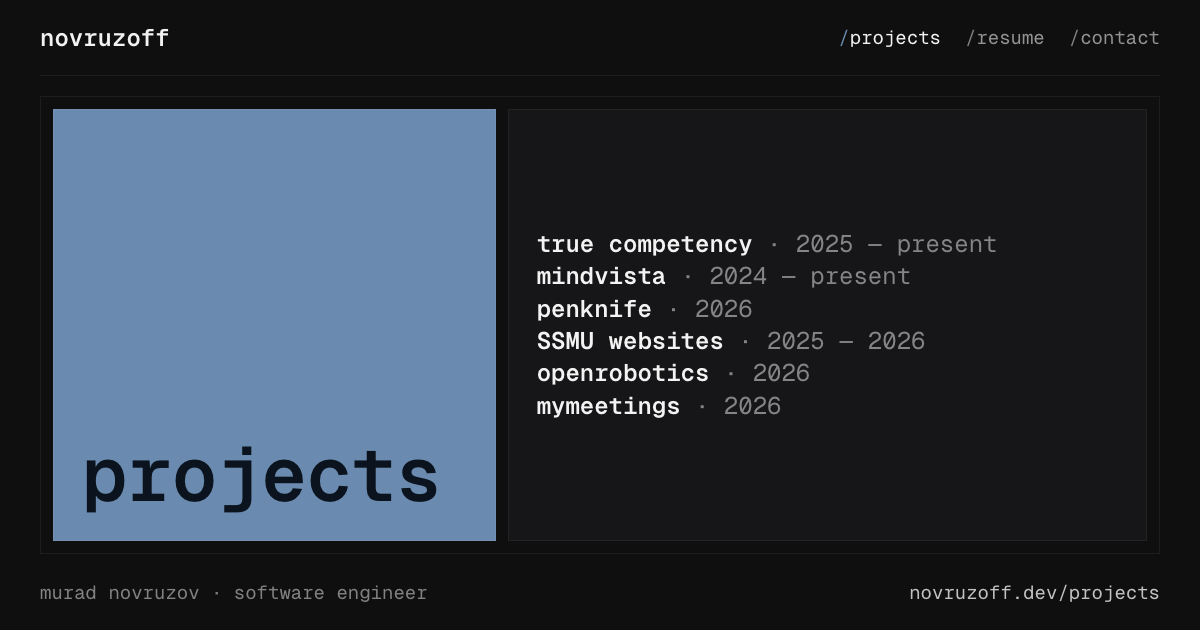
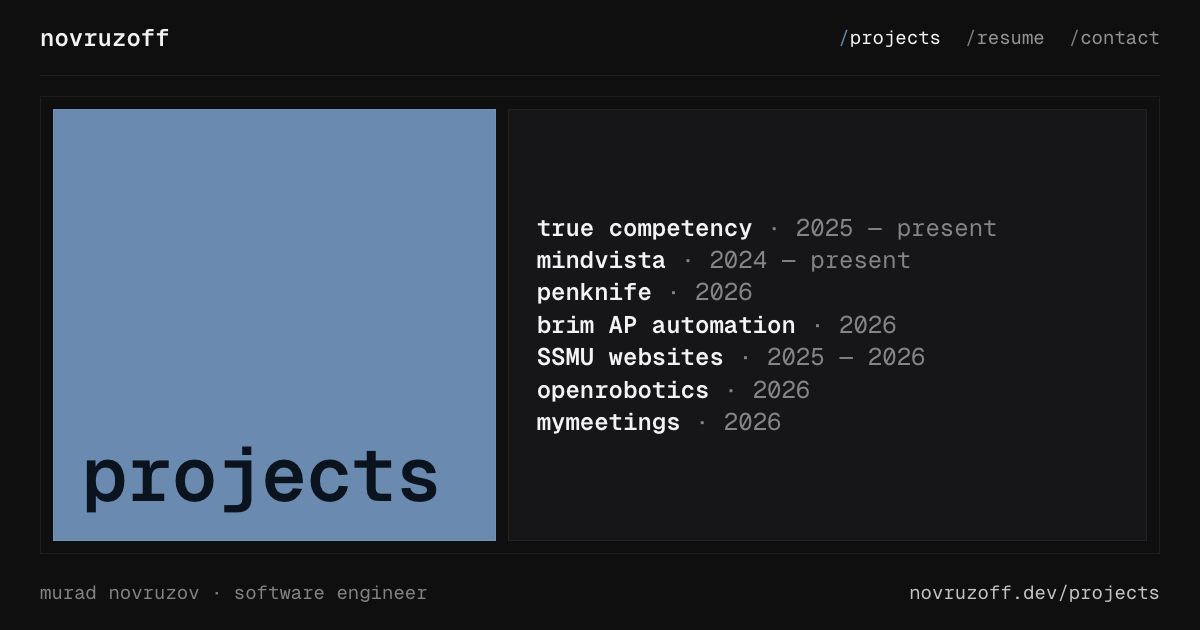
feat(projects): add brim AP automation; sync site content to current CV

Changed region(s): [[0.4317, 0.3317, 0.8325, 0.6937]]

diff --git a/src/data/projects.ts b/src/data/projects.ts
@@ -11,7 +11,9 @@ export type Project = {
   slug: string;
   title: string;
   dates: string;
-  /** One sentence: what it is. The legacy home page shows only this. */
+  /** A recognition (e.g. a hackathon placing), shown as metadata under the title. */
+  award?: string;
+  /** One sentence: what it is. */
   blurb: string;
   metrics?: Metric[];
   /** The detail, one fact per bullet. Shown on /projects. */
@@ -50,7 +52,7 @@ export const projects: Project[] = [
     ],
     highlights: [
       "role-based dashboards for trainees, instructors and committees, with authorization at the database layer via PostgreSQL RLS.",
-      "staged content workflow: Delphi voting and an approval lifecycle drive the MCQ pipeline.",
+      "staged content workflow: expert-consensus (Delphi) voting and an approval lifecycle drive the MCQ pipeline.",
       "multi-modality architecture: IVUS module shipped, OCT in development, native iOS/Android in scoping.",
       "full production delivery: Vercel, Sentry, Resend and a Tailwind design system.",
       "five-figure institutional contract with APSC (hong kong), with additional medical societies in negotiation. backed by vitruvius venture studio.",
@@ -108,11 +110,35 @@ export const projects: Project[] = [
       "structured as a local Swift package: a UI-free core and one module per tool behind a shared registry.",
       "every tool exposed through App Intents (12 actions, 10 shortcuts) and a share extension kept under its 120 MB memory limit.",
       "all processing on-device with no third-party dependencies. network tools block local-network targets (incl. NAT64/6to4). adaptive iPhone layouts.",
+      "keeps a “Data Not Collected” App Store privacy label.",
       "180+ unit/UI tests (Swift Testing, XCTest) under Swift 6 strict concurrency.",
     ],
     stack: ["Swift 6", "SwiftUI", "App Intents", "Swift Testing", "XCTest"],
     liveUrl: "/penknife",
     appStoreUrl: PENKNIFE_APP_STORE_URL,
+  },
+  {
+    slug: "brim-ap-automation",
+    title: "brim AP automation",
+    dates: "2026",
+    award: "codejam 16 honourable mention (brim fintech challenge, McGill ECSESS)",
+    blurb:
+      "accounts-payable platform that takes invoices from email or PDF through LLM extraction, fraud/tax controls, approvals, and simulated payment.",
+    metrics: [
+      { value: "426", label: "invoices replayed" },
+      { value: "$16.8k", label: "duplicate payments found" },
+      { value: "1,800+", label: "tests" },
+      { value: "4", label: "person team" },
+    ],
+    highlights: [
+      "led a 4-person team.",
+      "replaying 426 past invoices found $16.8k paid twice.",
+      "owned the data layer: an Alembic-versioned SQLAlchemy schema and a hash-chained audit log that detects any edit, insertion, or deletion.",
+      "built most of the React/TypeScript UI.",
+      "team test suite of 1,800+ tests.",
+    ],
+    stack: ["Python", "FastAPI", "SQLAlchemy", "Alembic", "React", "TypeScript", "Claude API"],
+    // No link yet: the brief's link was still a placeholder.
   },
   {
     slug: "ssmu-websites",
@@ -133,18 +159,19 @@ export const projects: Project[] = [
     slug: "openrobotics",
     title: "openrobotics",
     dates: "jan 2026 — may 2026",
-    blurb: "multi-robot warehouse simulator, built in a 7-person agile team.",
+    blurb: "JavaFX multi-robot warehouse simulator (RTA*, bug, greedy), built in an 8-person team.",
     metrics: [
-      { value: "4", label: "screens" },
-      { value: "5", label: "dialogs" },
-      { value: "7", label: "person team" },
+      { value: "8", label: "person team" },
+      { value: "1,800", label: "line CSS split" },
+      { value: "10", label: "stylesheets" },
+      { value: "10x", label: "playback" },
     ],
     highlights: [
-      "built the entire frontend: 4 screens and 5 dialogs.",
-      "scalable CSS architecture: a single theme.css importing base and per-screen partials, with a strict design-token system that eliminated inline styles from FXML.",
-      "brought intersections to full parity with the other entity types: hit detection, drag/move, copy/paste and canvas logging.",
+      "built the entire frontend of the simulator.",
+      "split a 1,800-line theme.css into 10 base and per-screen stylesheets, moving inline FXML styles into reusable classes.",
+      "built editor features: drag, copy/paste and undo/redo for intersections, JSON results export, 10x playback.",
     ],
-    stack: ["Java 21", "JavaFX", "FXML", "CSS", "Maven", "PostgreSQL", "Supabase"],
+    stack: ["Java 21", "JavaFX", "FXML", "CSS", "Maven", "Jackson", "PostgreSQL", "Supabase"],
     repoUrl: "https://github.com/novruzoff/OpenRobotics",
   },
   {

diff --git a/src/data/resume.ts b/src/data/resume.ts
@@ -6,38 +6,34 @@ export type SkillGroup = { label: string; items: string[] };
 export const skills: SkillGroup[] = [
   {
     label: "languages",
-    items: ["TypeScript/JavaScript", "Python", "Java", "Swift", "C", "SQL", "Bash"],
+    items: ["TypeScript/JavaScript", "Python", "Swift", "Java", "SQL", "C"],
   },
   {
-    label: "frameworks",
+    label: "frameworks & testing",
     items: [
-      "Next.js",
       "React",
-      "SwiftUI",
+      "Next.js",
       "Node.js",
       "Express",
-      "Payload CMS",
+      "FastAPI",
       "Tailwind CSS",
+      "SwiftUI",
       "Vitest",
       "Playwright",
+      "pytest",
     ],
   },
   {
-    label: "infrastructure & security",
+    label: "data & devops",
     items: [
       "PostgreSQL",
       "Supabase",
       "MongoDB",
       "Docker",
-      "AWS S3",
+      "AWS (S3)",
       "Vercel",
+      "GitHub Actions (CI/CD)",
       "Git",
-      "CI/CD",
-      "Unix",
-      "RLS",
-      "JWT",
-      "OAuth 2.0",
-      "Sentry",
     ],
   },
 ];

diff --git a/CLAUDE.md b/CLAUDE.md
@@ -74,7 +74,7 @@ Wire as CSS custom properties in `global.css`, exposed to Tailwind v4 via `@them
 **All rendered text is lowercase, written lowercase in the source.**
 
 - Write the lowercase letters in the markup and data. Don't produce it with `text-transform` — the source is the truth (what's read aloud, copied, indexed and grepped is what's shown).
-- Proper nouns and names are lowercase too: people, places, organizations and my own projects — "murad novruzov", "novruzoff", "true competency", "mindvista", "openrobotics", "vitruvius venture studio", "montreal", "hong kong", "azerbaijan republic broadcaster". Months too: "sep 2025 — present".
+- Proper nouns and names are lowercase too: people, places, organizations and my own projects — "murad novruzov", "novruzoff", "true competency", "mindvista", "openrobotics", "vitruvius venture studio", "montreal", "hong kong", "azerbaijan republic broadcaster", "brim", events like "codejam 16". Months too: "sep 2025 — present".
 - Section headers, nav labels and link labels are lowercase: "projects", "resume", "contact", "experience", "live", "repo".
 
 **Exceptions — these keep their own casing, written exactly as here:**
@@ -170,7 +170,7 @@ Header, panel grid, footer in one flex column. Five panels: **photo a · greetin
 #### Document pages
 
 - `/projects`, `/resume`, `/contact`, Penknife: `Header` + `<main class="wrap doc">` + `Footer`. `.doc`, `.doc-head` (h1, `.lead`, `.meta`) and `.prose` live in `global.css`. `.doc [id]` has a 76px `scroll-margin-top`, so `/projects#mindvista` lands 76px down, clear of the 52px sticky header (verified). Don't add `scroll-padding-top` to `html`: it stacks with the margin (the old home page's 32px did, landing anchors at 108px). No JS, no reveals; section rules are static.
-- **Project entries** (`ProjectRow`, /projects): title | dates on one line, a one-line summary, metric tiles (`repeat(auto-fill, minmax(150px, 1fr))`: two per row at 375px, four at desktop; value 17px/600 in `--accent` on `--bg-elevated`, 5.10:1; label 11px tertiary), detail bullets with a hanging decorative "-", the stack, then links in `--accent`. Entries are separated by a hairline; no cards, no hover lift.
+- **Project entries** (`ProjectRow`, /projects): title | dates on one line, an optional award line under it (`.pe-award`: the date's own style, 12px `--text-tertiary`, no badge or colour), a one-line summary, metric tiles (`repeat(auto-fill, minmax(150px, 1fr))`: two per row at 375px, four at desktop; value 17px/600 in `--accent` on `--bg-elevated`, 5.10:1; label 11px tertiary), detail bullets with a hanging decorative "-", the stack, then links in `--accent`. Entries are separated by a hairline; no cards, no hover lift.
 - Experience list: a vertical timeline (`<ol class="timeline">` of `.xp-node` items, most recent first): a 28px gutter (20px under 480px) holding a 9px dot, then role over company | date over location (right-aligned, tertiary). The dot is filled `--accent` when the role's `dates` contain "present" (`data-current`), otherwise a hollow 1px `--text-tertiary` ring. The 0.5px connector is trimmed to the dot on the first and last node. `ExperienceRow` (/resume) adds the bullets and a link to the role's `/projects#<slug>` entry under both columns. The link reads "view the <project title> project →", with the title taken from `projects.ts` and the arrow `aria-hidden`, so a screen reader hears the phrase, never the path; ARB has no project and no link, and under 480px moves date and location onto a line below the company (otherwise long company names break over four lines).
 - Inline lists with "·" separators (stack, skills) draw the dot **after** each item but the last, so a wrapped line never starts with a separator.
 
@@ -181,7 +181,7 @@ Routes:
 | URL | File | Notes |
 |---|---|---|
 | `/` | `src/pages/index.astro` | The panel homepage (see Layout → Home panel grid). Vibe only |
-| `/projects` | `src/pages/projects.astro` | Full depth on every project, in `projects.ts` order; each entry is `/projects#<slug>` |
+| `/projects` | `src/pages/projects.astro` | Full depth on every project, in `projects.ts` order (most significant first, not by date): true competency, mindvista, penknife, brim AP automation, SSMU websites, openrobotics, mymeetings. Each entry is `/projects#<slug>` (`#brim-ap-automation` for brim) |
 | `/resume` | `src/pages/resume.astro` | Lean: about, timeline with 1–2 bullets per role (linking to `/projects#<slug>`), skills, education |
 | `/contact` | `src/pages/contact.astro` | One line, the `mailto:` link, GitHub and LinkedIn |
 | `/penknife` | `src/pages/penknife/index.astro` | Penknife (iOS app) landing: one line, ten tools, links |
@@ -271,6 +271,7 @@ Static by design: no JS at all, no reveals, no scroll-driven motion. Each page i
   repoUrl?: string
   appStoreUrl?: string  // rendered as "App Store"
   caseStudyUrl?: string // for future case studies (/projects/[slug])
+  award?: string        // a recognition, shown as metadata under the title: "codejam 16 honourable mention (brim fintech challenge, McGill ECSESS)"
 }
 ```
 
@@ -330,7 +331,7 @@ Wrong voice:
 - **Social cards are generated, not drawn: `pnpm run og`** (`scripts/generate-og.mjs`) renders `public/og.png` and `public/og/{projects,resume,contact}.png`. **Re-run it after changing `projects.ts`, `experience.ts`, the homepage greeting/statement, the header links or the /contact copy, and commit the PNGs** (they're served from `public/`, not built). `pnpm run og -- --check` compares without writing and exits 1 if a card is out of date. Each run prints `unchanged` / `written` per card and never rewrites a byte-identical file.
   - **Automatic:** project titles and dates (`projects.ts`, shown as years: "sep 2025 — present" → "2025 — present", a range inside one year → that year) and roles and companies (`experience.ts`, the company cut at its parenthetical: "ARB (azerbaijan republic broadcaster)" → "ARB"). Node 24 imports the `.ts` files directly (type stripping); a small `registerHooks` resolve hook adds the `.ts` that the data files' extensionless imports leave out.
   - **Mirrored constants at the top of the script** (they live in `.astro` files Node can't import): the header links (`Header.astro`), the greeting and statement (`index.astro`), the contact line, email and handles (`contact.astro`), and the card byline. Change them alongside their source.
-  - **No npm dependency.** It writes each card as HTML with the Geist Mono woff2 files inlined as data URIs and screenshots it by running Chromium directly (`--headless --screenshot`, 1200×630, scale 1). Browser lookup: `CHROME_PATH`, then the newest `chrome-headless-shell` in Playwright's cache, then a system Chrome/Chromium. Byte-identical output needs the same Chromium build the committed cards came from (chrome-headless-shell 1248); a different build renders the same design with slightly different antialiasing, so `--check` would report every card as changed.
+  - **No npm dependency.** It writes each card as HTML with the Geist Mono woff2 files inlined as data URIs and screenshots it by running Chromium directly (`--headless --screenshot`, 1200×630, scale 1). Browser lookup: `CHROME_PATH`, then the newest `chrome-headless-shell` in Playwright's cache, then a system Chrome/Chromium. Byte-identical output needs a Chromium build that renders these cards the same way as the one the committed cards came from: chrome-headless-shell 1248 made them, and 1255 (picked up automatically after a Playwright cache update) reproduced all of them byte for byte. A build that antialiases differently would make `--check` report every card as changed; the design would be the same.
   - The card design (markup and CSS) lives in the script; change it there and regenerate every card. `robots.txt` points at `/sitemap-index.xml` (generated by `@astrojs/sitemap`).
 - Lighthouse performance: ≥ 92 mobile, ≥ 96 desktop. Measured (Lighthouse 12.6.1, headless Chromium, local preview): 100 / 100 / 100 / 100 on every page, mobile and desktop, homepage with placeholder media. Re-run once real photos and the loop land.
 - LCP: ≤ 2.0s on 4G.
